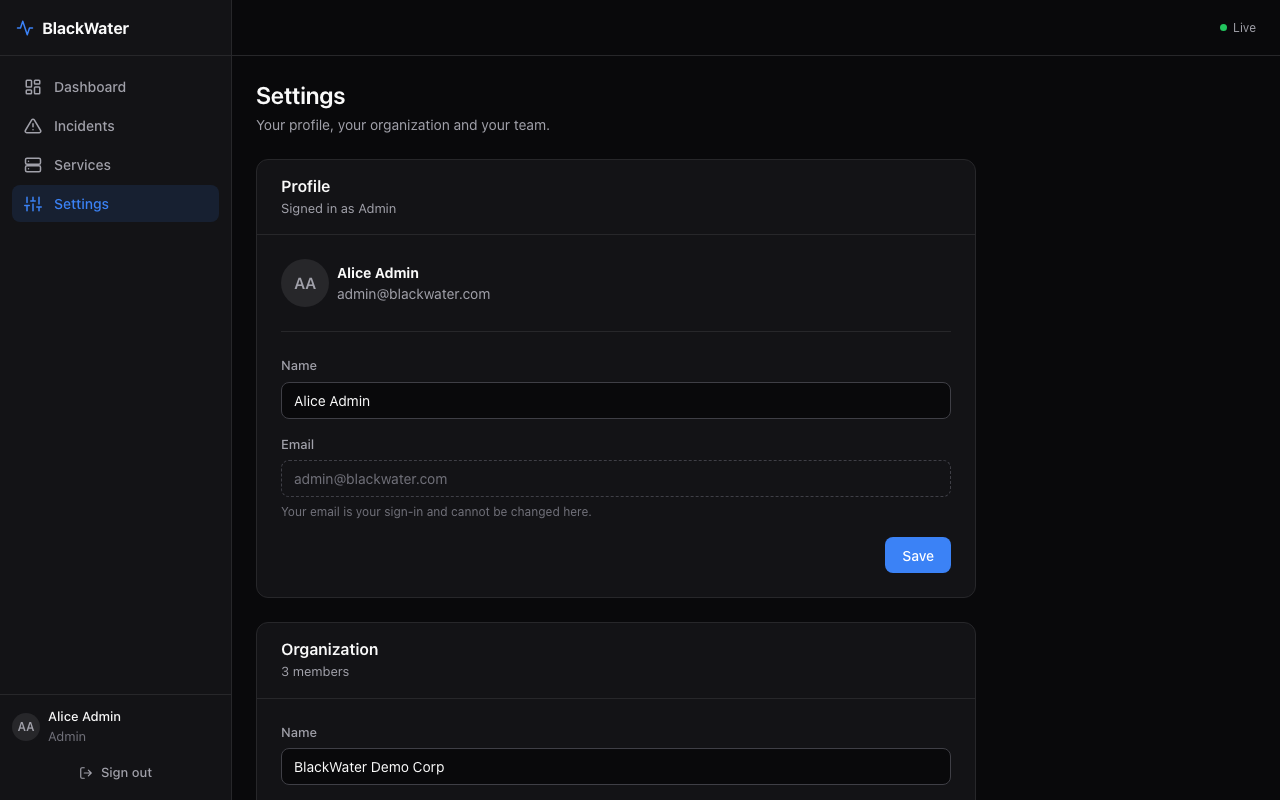
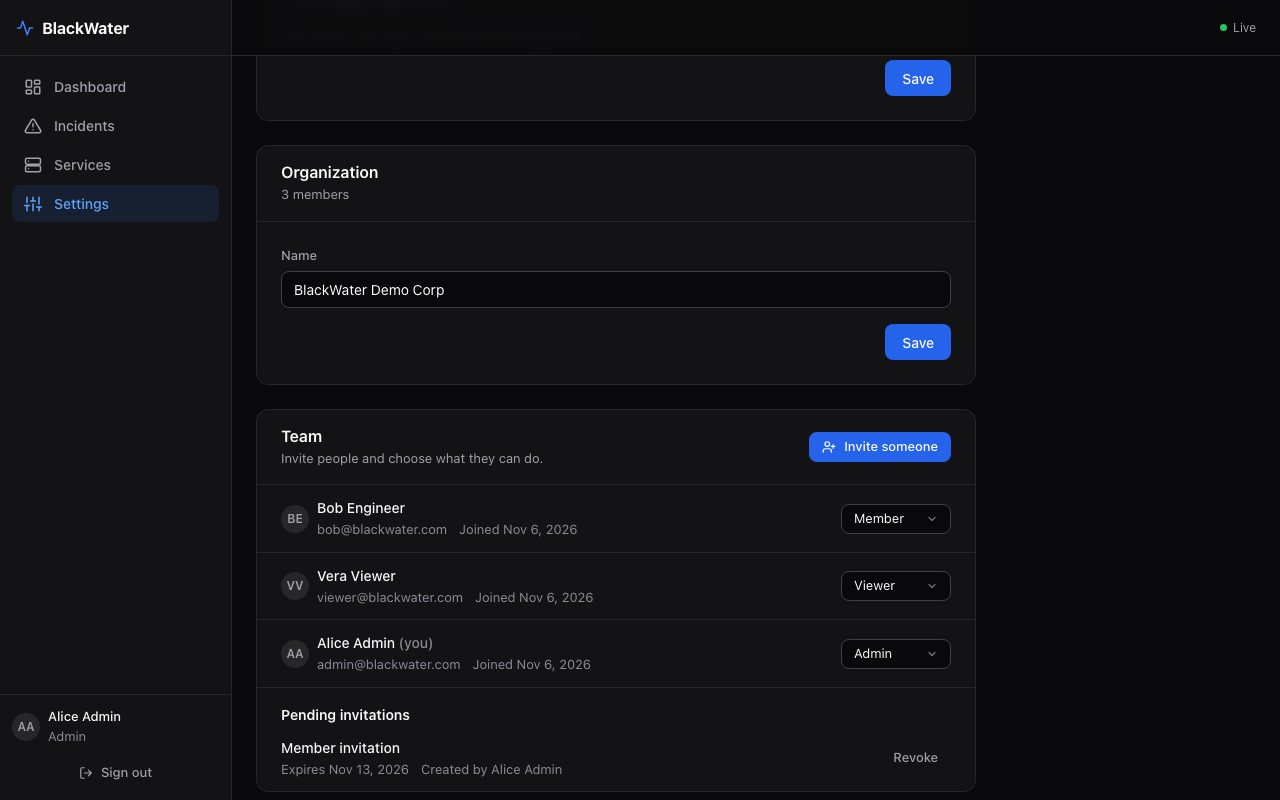
docs: refresh screenshots, explain link origins, remove a hardcoded URL
The screenshots predate the contrast changes, and team.png was not used
anywhere; all four are recaptured from the demo seed and the team view is now
in the README. The smoke config no longer names the preview URL in its error
message. docs/deployment.md states that invitation and status links use the
address the administrator is on, so there is no canonical-URL setting.

diff --git a/playwright.smoke.config.js b/playwright.smoke.config.js
@@ -5,7 +5,7 @@ import { defineConfig, devices } from '@playwright/test';
 // No server is started and no test database is touched.
 const baseURL = process.env.SMOKE_URL;
 if (!baseURL) {
-  throw new Error('Set SMOKE_URL to the address of the deployment to test, e.g. SMOKE_URL=https://blackwater-app.onrender.com');
+  throw new Error('Set SMOKE_URL to the address of the deployment to test, e.g. SMOKE_URL=https://your-app.example.com');
 }
 
 export default defineConfig({

diff --git a/docs/deployment.md b/docs/deployment.md
@@ -104,6 +104,10 @@ The database is the only state; the application keeps nothing on disk.
 - **Test the restore** at least once into a scratch database before you depend on it. A backup that has never been restored is an assumption.
 - Never run the test suite or the seed script against a database you care about: both delete every row.
 
+## Links the application creates
+
+Invitation links and the public status page link are built in the administrator's browser from the address it is using (`/invite#<token>` and `/status/<organization id>`). The page, the API and the Socket.IO connection are always on the same origin, so nothing needs configuring and there is no canonical-URL setting. If you add a custom domain, open the application on that domain when you create invitations, otherwise the links carry the `onrender.com` address.
+
 ## First administrator
 
 Open `/register` and create the organization; whoever registers is its administrator. Registration is open to anyone who can reach the server, so if the deployment is private, restrict access at the network or proxy level.

diff --git a/README.md b/README.md
@@ -25,6 +25,8 @@ Every organization's data is isolated from every other's.
 |---|---|
 | ![Incident](docs/screenshots/incident.png) | ![Status page](docs/screenshots/status-page.png) |
 
+![Team: roles and invitations](docs/screenshots/team.png)
+
 ## Stack
 
 Node.js and Express, PostgreSQL through Prisma, Socket.IO, JWT and bcrypt, zod for validation. The interface is plain HTML, CSS and JavaScript served by the same Express app: no framework, no build step.
